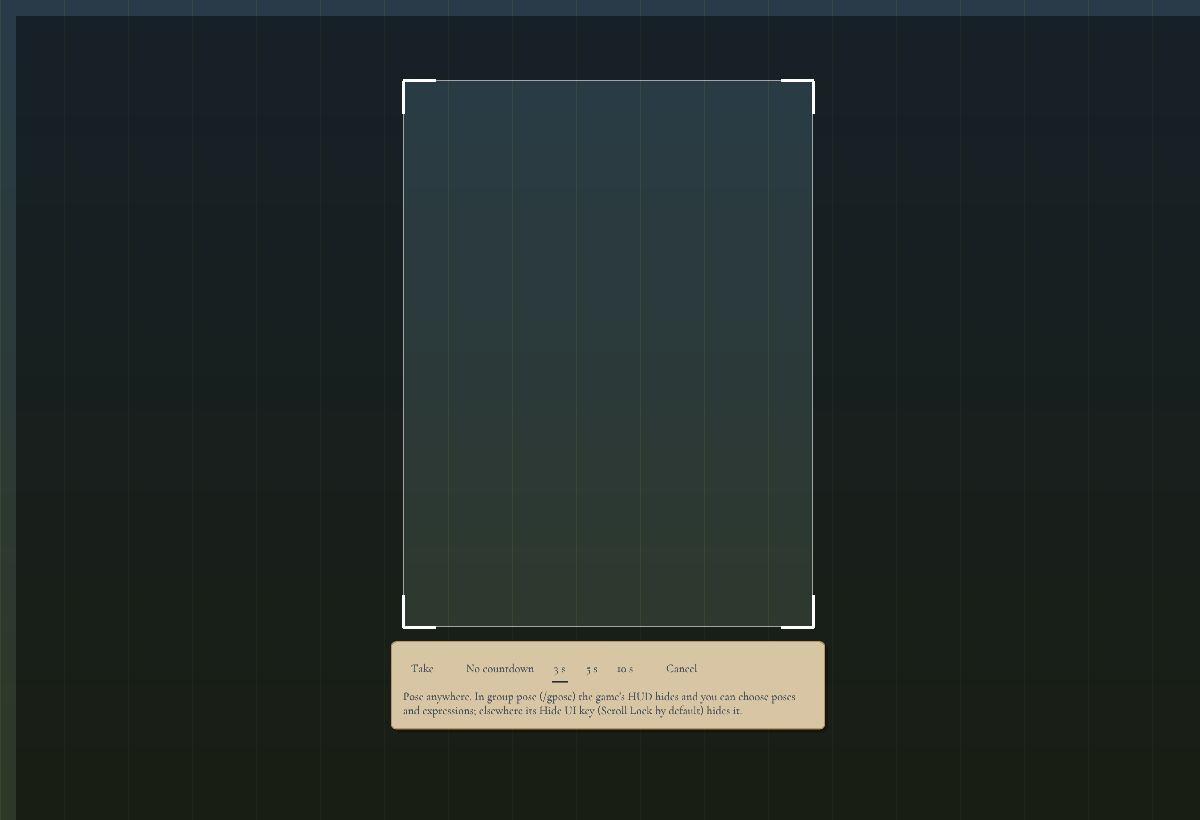
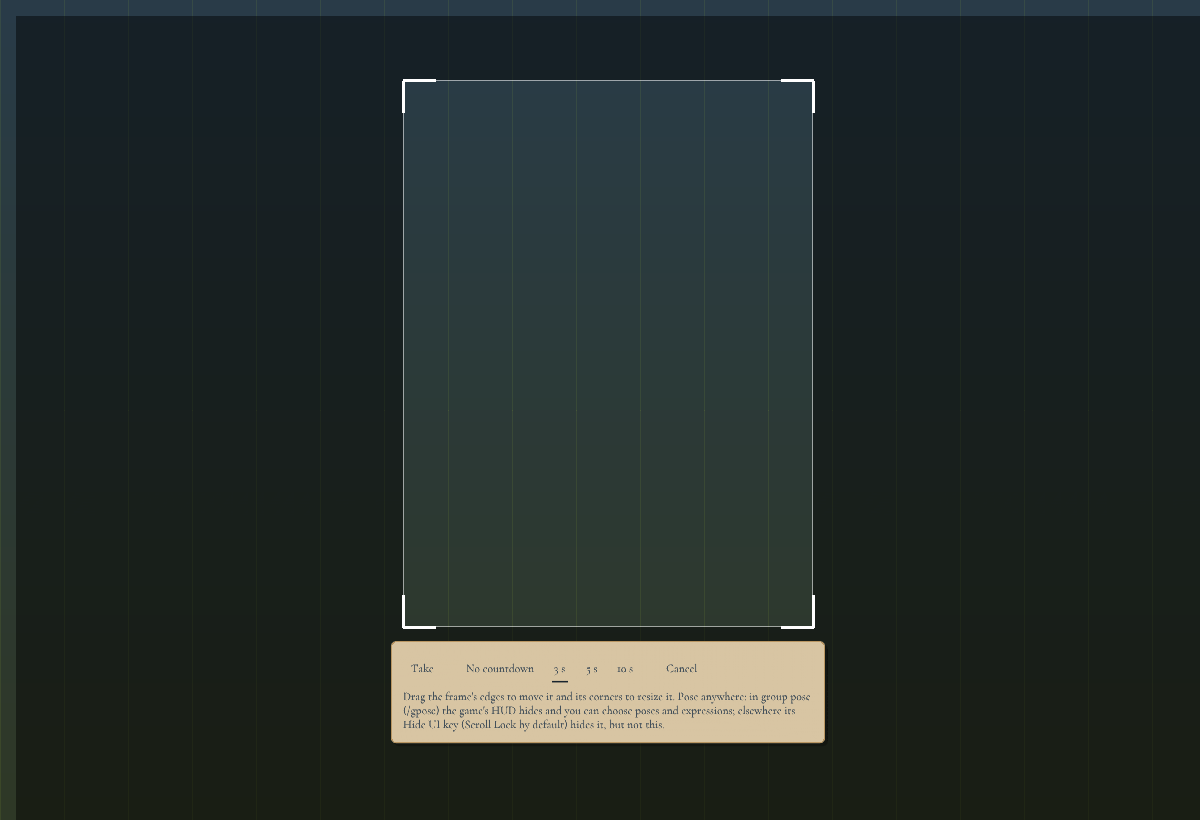
fix(ui): keep the camera guide through hidden UI and let it move and resize

Changed region(s): [[0.3083, 0.8232, 0.7092, 0.9146]]

diff --git a/src/Wanderveil/UI/BookShellCamera.cs b/src/Wanderveil/UI/BookShellCamera.cs
@@ -12,7 +12,8 @@ namespace Wanderveil.UI;
 // Take a picture: while the book steps aside, the screen dims around a 3:4 frame guide, and a small paper panel under it
 // offers Take, a countdown (off, 3, 5, or 10 seconds, kept for the session), and Cancel, with a tip about posing. Take
 // (after the countdown) captures what is inside the guide; the capture is taken before any plugin window draws, so
-// neither the guide nor the panel is in the picture. Escape cancels, also mid-countdown.
+// neither the guide nor the panel is in the picture. Escape cancels, also mid-countdown. The guide's edges move it and
+// its corners resize it (staying 3:4), kept for the session; inside, the mouse passes through to the game's camera.
 internal sealed class BookShellCamera(IPassportPortrait? picture)
 {
     internal static readonly int[] Countdowns = [0, 3, 5, 10];
@@ -22,12 +23,94 @@ internal sealed class BookShellCamera(IPassportPortrait? picture)
     // Seconds left before the picture is taken, while counting down.
     internal float? Remaining { get; private set; }
     internal UiRect Guide { get; private set; }
+    // Where the guide sits: its centre (0 to 1 across and down the screen) and its height as a share of the screen's.
+    private Vector2 centre = new(0.5f, 0.42f);
+    private float share = 0.68f;
+    // How thick the edges that move the guide are, and how large its corner handles, last frame.
+    private float grip = 8f;
     // Where the panel lay last frame: the only part of the screen that takes the mouse.
     internal UiRect Panel { get; private set; }
     // For checks: where each control was drawn last frame, by name.
     internal Dictionary<string, Vector2> Controls { get; } = new(StringComparer.Ordinal);
 
     internal bool Available => picture?.CanTake == true;
+
+    // Whether the guide's window takes the mouse at a point: on its panel, or on the guide's edges and corners. Inside
+    // the guide and around it, the mouse passes to the game.
+    internal bool TakesMouse(Vector2 point)
+    {
+        if (Panel.Contains(point)) return true;
+        var outer = new UiRect(Guide.Position - new Vector2(grip), Guide.Size + new Vector2(grip * 2));
+        var inner = new UiRect(Guide.Position + new Vector2(grip), Vector2.Max(Vector2.Zero, Guide.Size - new Vector2(grip * 2)));
+        return outer.Contains(point) && !inner.Contains(point) || dragging;
+    }
+
+    private bool dragging;
+
+    // The guide from its centre and share, kept within the screen and at least a fifth of its height.
+    private UiRect Place(UiRect screen)
+    {
+        share = Math.Clamp(share, 0.2f, 0.95f);
+        var height = MathF.Round(screen.Size.Y * share);
+        var width = MathF.Round(height * PassportDocumentView.PortraitAspect);
+        if (width > screen.Size.X * 0.95f) { width = MathF.Round(screen.Size.X * 0.95f); height = MathF.Round(width / PassportDocumentView.PortraitAspect); share = height / screen.Size.Y; }
+        var middle = screen.Position + centre * screen.Size;
+        var min = Vector2.Clamp(middle - new Vector2(width, height) / 2, screen.Position, Vector2.Max(screen.Position, screen.Max - new Vector2(width, height)));
+        centre = (min + new Vector2(width, height) / 2 - screen.Position) / Vector2.Max(Vector2.One, screen.Size);
+        return new UiRect(min, new Vector2(width, height));
+    }
+
+    // The guide's edges move it; its corners resize it from the opposite corner, staying 3:4. Returns the guide as it
+    // now lies.
+    private UiRect Handles(UiRect screen, UiRect guide, UiContext context)
+    {
+        if (Remaining != null) { dragging = false; return guide; }
+        var io = ImGui.GetIO();
+        var any = false;
+        // Edges: four strips along the sides, between the corners.
+        var edges = new[]
+        {
+            new UiRect(guide.Position + new Vector2(grip, -grip), new Vector2(guide.Size.X - grip * 2, grip * 2)),
+            new UiRect(new Vector2(guide.Position.X + grip, guide.Max.Y - grip), new Vector2(guide.Size.X - grip * 2, grip * 2)),
+            new UiRect(guide.Position + new Vector2(-grip, grip), new Vector2(grip * 2, guide.Size.Y - grip * 2)),
+            new UiRect(new Vector2(guide.Max.X - grip, guide.Position.Y + grip), new Vector2(grip * 2, guide.Size.Y - grip * 2)),
+        };
+        for (var index = 0; index < edges.Length; index++)
+        {
+            ImGui.SetCursorScreenPos(edges[index].Position);
+            ImGui.InvisibleButton("Guide edge " + index, Vector2.Max(Vector2.One, edges[index].Size));
+            if (ImGui.IsItemHovered() || ImGui.IsItemActive()) ImGui.SetMouseCursor(ImGuiMouseCursor.ResizeAll);
+            if (ImGui.IsItemActive())
+            {
+                any = true;
+                centre += io.MouseDelta / Vector2.Max(Vector2.One, screen.Size);
+            }
+        }
+        Controls["Guide edge"] = edges[0].Position + edges[0].Size / 2;
+        // Corners: each resizes from the opposite one.
+        var corners = new[] { (guide.Position, guide.Max), (new Vector2(guide.Max.X, guide.Position.Y), new Vector2(guide.Position.X, guide.Max.Y)), (new Vector2(guide.Position.X, guide.Max.Y), new Vector2(guide.Max.X, guide.Position.Y)), (guide.Max, guide.Position) };
+        for (var index = 0; index < corners.Length; index++)
+        {
+            var (corner, anchor) = corners[index];
+            ImGui.SetCursorScreenPos(corner - new Vector2(grip * 1.5f));
+            ImGui.InvisibleButton("Guide corner " + index, new Vector2(grip * 3));
+            if (ImGui.IsItemHovered() || ImGui.IsItemActive()) ImGui.SetMouseCursor(index is 0 or 3 ? ImGuiMouseCursor.ResizeNwse : ImGuiMouseCursor.ResizeNesw);
+            if (ImGui.IsItemActive())
+            {
+                any = true;
+                var reach = Vector2.Abs(io.MousePos - anchor);
+                var height = MathF.Max(reach.Y, reach.X / PassportDocumentView.PortraitAspect);
+                height = Math.Clamp(height, screen.Size.Y * 0.2f, screen.Size.Y * 0.95f);
+                var size = new Vector2(height * PassportDocumentView.PortraitAspect, height);
+                var toward = new Vector2(MathF.Sign(corner.X - anchor.X), MathF.Sign(corner.Y - anchor.Y));
+                share = height / screen.Size.Y;
+                centre = (anchor + toward * size / 2 - screen.Position) / Vector2.Max(Vector2.One, screen.Size);
+            }
+            Controls["Guide corner " + index] = corner;
+        }
+        dragging = any;
+        return any ? Place(screen) : guide;
+    }
 
     internal void Reset() => Remaining = null;
 
@@ -37,10 +120,12 @@ internal sealed class BookShellCamera(IPassportPortrait? picture)
         Controls.Clear();
         if (escape) { Remaining = null; return false; }
         var list = ImGui.GetWindowDrawList();
-        var height = MathF.Round(screen.Size.Y * 0.68f);
-        var width = MathF.Round(height * PassportDocumentView.PortraitAspect);
-        var guide = new UiRect(screen.Position + new Vector2((screen.Size.X - width) / 2, screen.Size.Y * 0.08f), new Vector2(width, height));
+        grip = MathF.Max(8f, 10 * context.Scale);
+        var guide = Place(screen);
+        guide = Handles(screen, guide, context);
         Guide = guide;
+        var height = guide.Size.Y;
+        var width = guide.Size.X;
 
         // The rest of the screen dims; the guide is outlined, with brighter corners.
         var dim = ImGui.GetColorU32(new Vector4(0, 0, 0, 0.45f));
@@ -80,7 +165,7 @@ internal sealed class BookShellCamera(IPassportPortrait? picture)
         var pad = 12 * context.Scale;
         var gap = 16 * context.Scale;
         var control = BookShellLayout.GetControlHeight(context);
-        const string Tip = "Pose anywhere. In group pose (/gpose) the game's HUD hides and you can choose poses and expressions; elsewhere its Hide UI key (Scroll Lock by default) hides it.";
+        const string Tip = "Drag the frame's edges to move it and its corners to resize it. Pose anywhere: in group pose (/gpose) the game's HUD hides and you can choose poses and expressions; elsewhere its Hide UI key (Scroll Lock by default) hides it, but not this.";
         var labels = new List<string> { Remaining == null ? "Take" : "Taking" };
         foreach (var seconds0 in Countdowns) labels.Add(seconds0 == 0 ? "No countdown" : $"{seconds0} s");
         labels.Add("Cancel");
@@ -90,7 +175,14 @@ internal sealed class BookShellCamera(IPassportPortrait? picture)
         row += gap * 2 + 4 * context.Scale * (Countdowns.Length - 1);
         var panelWidth = MathF.Min(screen.Size.X - pad * 2, MathF.Max(row, width) + pad * 2);
         var tipSize = UiTypography.Measure(Tip, TextRole.Caption, context, panelWidth - pad * 2, true);
-        var panel = new UiRect(new Vector2(screen.Position.X + (screen.Size.X - panelWidth) / 2, guide.Max.Y + 14 * context.Scale), new Vector2(panelWidth, pad * 2 + control + 6 * context.Scale + tipSize.Y));
+        // Under the guide where it fits, else over it, else at the screen's foot; centred on the guide where it can be.
+        var panelHeight = pad * 2 + control + 6 * context.Scale + tipSize.Y;
+        var space = 14 * context.Scale;
+        var top = guide.Max.Y + space + panelHeight <= screen.Max.Y - 8 ? guide.Max.Y + space
+            : guide.Position.Y - space - panelHeight >= screen.Position.Y + 8 ? guide.Position.Y - space - panelHeight
+            : screen.Max.Y - 8 - panelHeight;
+        var panelX = Math.Clamp(guide.Position.X + (guide.Size.X - panelWidth) / 2, screen.Position.X + 8, MathF.Max(screen.Position.X + 8, screen.Max.X - 8 - panelWidth));
+        var panel = new UiRect(new Vector2(panelX, top), new Vector2(panelWidth, panelHeight));
         Panel = panel;
         PageSurface.Draw(list, panel, context);
         var x = panel.Position.X + pad;

diff --git a/tests/Wanderveil.UiChecks/CameraChecks.cs b/tests/Wanderveil.UiChecks/CameraChecks.cs
@@ -34,6 +34,24 @@ internal static class CameraChecks
             check(MathF.Abs(guide.Size.X / guide.Size.Y - PassportDocumentView.PortraitAspect) < 0.01f && book.Shell.Camera.Controls.ContainsKey("Take"), "The camera's guide is not a 3:4 frame with its panel.");
             if (!motion) book.Save(artifacts, "camera-guide.bmp");
 
+            // The guide's edges move it and its corners resize it, staying 3:4; only they and the panel take the mouse.
+            var camera0 = book.Shell.Camera;
+            check(camera0.TakesMouse(camera0.Controls["Guide edge"]) && !camera0.TakesMouse(guide.Position + guide.Size / 2) && !camera0.TakesMouse(guide.Position - new Vector2(60)) && camera0.TakesMouse(camera0.Controls["Take"]),
+                "The guide's window takes the mouse inside the guide or around it, or not on its edges and panel.");
+            book.Drag(camera0.Controls["Guide edge"], camera0.Controls["Guide edge"] + new Vector2(-150, 60));
+            var moved = camera0.Guide;
+            check(MathF.Abs(moved.Position.X - (guide.Position.X - 150)) < 3 && MathF.Abs(moved.Position.Y - (guide.Position.Y + 60)) < 3 && moved.Size == guide.Size, $"Dragging the guide's edge does not move it ({guide.Position} to {moved.Position}).");
+            // Its bottom right corner, dragged in, makes it smaller from its top left.
+            book.Drag(camera0.Controls["Guide corner 3"], camera0.Controls["Guide corner 3"] - new Vector2(90, 120));
+            var resized = camera0.Guide;
+            check(resized.Size.Y < moved.Size.Y - 100 && MathF.Abs(resized.Size.X / resized.Size.Y - PassportDocumentView.PortraitAspect) < 0.01f && Vector2.Distance(resized.Position, moved.Position) < 2, $"Dragging the guide's corner does not resize it at 3:4 from the opposite corner ({resized}).");
+            check(camera0.Panel.Position.Y > resized.Max.Y, "The panel does not sit under the guide.");
+            // Dragged to the screen's foot, the panel goes above it.
+            book.Drag(camera0.Controls["Guide edge"], camera0.Controls["Guide edge"] + new Vector2(0, 600));
+            check(camera0.Panel.Max.Y < camera0.Guide.Position.Y, "With the guide at the screen's foot, the panel does not go above it.");
+            if (!motion) book.Save(artifacts, "camera-guide-moved.bmp");
+            guide = camera0.Guide;
+
             // A countdown: Take starts it; Escape cancels it, taking nothing; the book comes back still editing.
             book.Click(book.Shell.Camera.Controls["Countdown 2"]);
             book.Click(book.Shell.Camera.Controls["Take"]);
@@ -51,7 +69,8 @@ internal static class CameraChecks
             book.Click(book.Shell.Camera.Controls["Countdown 0"]);
             book.Click(book.Shell.Camera.Controls["Take"]);
             for (var frame = 0; frame < 120 && (book.Shell.Phase != BookPhase.Open || book.Shell.CameraOpen); frame++) book.Frame();
-            check(camera.Taken is { } taken && Vector2.Distance(taken.Min, guide.Position) < 1 && Vector2.Distance(taken.Max, guide.Max) < 1 && book.Shell.EditingIdentity && profile.Identity.Portrait != null,
+            var now = book.Shell.Camera.Guide;
+            check(camera.Taken is { } taken && Vector2.Distance(taken.Min, now.Position) < 1 && Vector2.Distance(taken.Max, now.Max) < 1 && Vector2.Distance(now.Position, guide.Position) < 1 && book.Shell.EditingIdentity && profile.Identity.Portrait != null,
                 $"Take does not capture the guide's area, or the book does not come back ({camera.Taken}).");
             // The picture's frame choices make the page taller; it settles to fit its paper again.
             book.Frames(12);

diff --git a/src/Wanderveil/UI/CameraWindow.cs b/src/Wanderveil/UI/CameraWindow.cs
@@ -7,7 +7,8 @@ using Wanderveil.UI.Primitives;
 namespace Wanderveil.UI;
 
 // The camera's guide, over the whole game view, while the book steps aside for Take a picture. A transparent window:
-// only the guide's panel takes the mouse, so the camera can still be moved around it. The book opens and closes it.
+// only the guide's panel, edges, and corners take the mouse, so the game's camera can still be turned, even through
+// the guide. The book opens and closes it.
 internal sealed class CameraWindow : Window
 {
     private readonly BookShell shell;
@@ -32,7 +33,7 @@ internal sealed class CameraWindow : Window
         Position = viewport.Pos;
         // WindowSystem applies host UI scaling to Size.
         Size = viewport.Size / scale;
-        Flags = Flags0 | (shell.Camera.Panel.Contains(ImGui.GetIO().MousePos) ? ImGuiWindowFlags.None : ImGuiWindowFlags.NoMouseInputs);
+        Flags = Flags0 | (shell.Camera.TakesMouse(ImGui.GetIO().MousePos) ? ImGuiWindowFlags.None : ImGuiWindowFlags.NoMouseInputs);
         BookShell.PrepareWindow(viewport.Size);
     }
 

diff --git a/src/Wanderveil/Plugin.cs b/src/Wanderveil/Plugin.cs
@@ -116,8 +116,12 @@ public sealed class Plugin : IDalamudPlugin
     private void Draw()
     {
         portrait?.Poll();
-        // The camera's guide stays visible in group pose, the game's own posing tool.
-        PluginInterface.UiBuilder.DisableGposeUiHide = mainWindow.CameraOpen;
+        // The camera's guide stays visible in group pose (the game's own posing tool) and when the game's UI is hidden,
+        // by its Hide UI key or by the game itself, so a picture can be taken without the HUD.
+        var camera = mainWindow.CameraOpen;
+        PluginInterface.UiBuilder.DisableGposeUiHide = camera;
+        PluginInterface.UiBuilder.DisableUserUiHide = camera;
+        PluginInterface.UiBuilder.DisableAutomaticUiHide = camera;
         assets?.BeginFrame();
         windowSystem.Draw();
         portrait?.DrawDialog();

diff --git a/docs/passport-runtime.md b/docs/passport-runtime.md
@@ -110,7 +110,7 @@ The identity spread is yours to fill in. A new passport is issued the first time
 - **Fill in from my character** copies the logged-in character's name, home world, and data center (read from Dalamud's player state on the game's thread) once. They are then yours to change. Nothing on the page is treated as verified: the passport is self-reported. Without a logged-in character, nothing changes and the page says so.
 - **Signature.** The signature line signs in the handwriting face (Caveat). Left empty, your name signs, as before. Typing a signature replaces it.
 - **Picture.** **Choose a picture** opens Dalamud's file picker for a PNG, JPEG, WebP, or BMP up to 16 MB. The picture is read, decoded, and copied beside the passport on a background task, so the game never waits on it. A picture taller than 1200 pixels is scaled down once for display. It then fills the 3:4 portrait frame. Drag it to move it, and scroll over it to zoom (up to 4×); it always covers the frame. **Remove picture** takes it out and deletes the copy, and the placeholder returns. A file that is too large or not a picture says so under the frame. So that a picture never sits on the paper as a bare rectangle, it is set in a frame, chosen in Edit mode from the row of words under the picture (hover one for what it is): **Printed** (the default: an ink keyline around a slightly lighter mount, with a soft shadow, like a printed passport photo), **Corners** (black album photo corners), **Embossed** (a mount pressed into the paper, no ink), **Deckled** (the picture's own edge torn rough), or **None**. The frame stays within the portrait area, and the picture is dragged within the frame's opening. All of it is drawn geometry, so it turns with the page. See [the five frames](previews/passport/portrait-frames.png).
-- **Take a picture.** Beside **Choose a picture**, **Take a picture** captures the game itself. The open book slides down out of the way (staying open, on its page, still editing), and the screen dims around a 3:4 frame guide with a small panel: **Take**, a countdown (**No countdown**, **3 s**, **5 s**, or **10 s**; 3 seconds at first, kept for the session), and **Cancel**, with a tip: pose anywhere; in group pose (`/gpose`) the game's HUD hides and you can choose poses and expressions, and elsewhere the game's Hide UI key (Scroll Lock by default) hides it. Only the panel takes the mouse, so the camera can still be turned around the guide. **Take** (after the countdown, shown large in the guide) captures what is inside the guide, and the book slides back up with the picture in its frame, ready to move and zoom like a chosen one. **Cancel** or Escape, also mid-countdown, brings the book back with nothing taken. While the guide is open it stays visible in group pose (Dalamud otherwise hides plugin windows there). The capture uses Dalamud's own viewport capture, taken before any plugin window draws, so neither the guide nor the panel (nor the passport) is in the picture; the game's own HUD is, unless hidden. It is saved as PNG through Dalamud's encoder and kept like a chosen picture. Previews: [the guide](previews/passport/camera-guide.png), [counting down](previews/passport/camera-countdown.png), [back with the picture](previews/passport/camera-taken.png) (the checks stand in a crest for the capture, which needs the game). The game's own portrait editor (the adventurer plate's) is not used: Dalamud offers no way to read its image, and reaching into the game for it would break with patches.
+- **Take a picture.** Beside **Choose a picture**, **Take a picture** captures the game itself. The open book slides down out of the way (staying open, on its page, still editing), and the screen dims around a 3:4 frame guide with a small panel: **Take**, a countdown (**No countdown**, **3 s**, **5 s**, or **10 s**; 3 seconds at first, kept for the session), and **Cancel**, with a tip: pose anywhere; in group pose (`/gpose`) the game's HUD hides and you can choose poses and expressions, and elsewhere the game's Hide UI key (Scroll Lock by default) hides it. Drag the guide's edges to move it and its corners to resize it (it stays 3:4; it keeps its place for the session), and the panel follows, under the guide or above it when there is no room below ([moved](previews/passport/camera-guide-moved.png)). Only the panel and the guide's edges and corners take the mouse, so the game's camera can still be turned, even through the guide. **Take** (after the countdown, shown large in the guide) captures what is inside the guide, and the book slides back up with the picture in its frame, ready to move and zoom like a chosen one. **Cancel** or Escape, also mid-countdown, brings the book back with nothing taken. While the guide is open it stays visible in group pose and when the game's UI is hidden (by the Hide UI key or by the game itself), where Dalamud would otherwise hide plugin windows; so the HUD can be hidden for the picture while the guide stays. The capture uses Dalamud's own viewport capture, taken before any plugin window draws, so neither the guide nor the panel (nor the passport) is in the picture; the game's own HUD is, unless hidden. It is saved as PNG through Dalamud's encoder and kept like a chosen picture. Previews: [the guide](previews/passport/camera-guide.png), [counting down](previews/passport/camera-countdown.png), [back with the picture](previews/passport/camera-taken.png) (the checks stand in a crest for the capture, which needs the game). The game's own portrait editor (the adventurer plate's) is not used: Dalamud offers no way to read its image, and reaching into the game for it would break with patches.
 - **On the cover.** An optional line, up to 28 characters, is embossed in the cover's foil between *The Black Shroud* and the maker's mark, set smaller when long so it stays inside the vine border. **Use my name** fills it with your name; left empty, the cover is as printed.
 
 Previews: [a new passport](previews/passport/identity-blank.png), [editing](previews/passport/identity-edit.png), [filled in from a character](previews/passport/identity-filled.png), [a placed picture](previews/passport/identity-picture.png), [a name on the cover](previews/passport/cover-line.png). The picker, picture loading, and character reading need the game and are not covered by the headless checks; the checks use stand-ins for them.

diff --git a/tests/README.md b/tests/README.md
@@ -21,7 +21,7 @@ All checks pass locally: 4252 in Debug and 4378 in Release when writing previews
 - Wide/narrow/enlarged/long-content discovery previews, empty list and missing-image details, and scrolling to the end of long details without horizontal overflow.
 - Collecting and placing: one stamp per discovery even after its design is revised, separate design and instance identifiers, demo provenance, source and designer, issue date, invalid discoveries or designs refused; new stamps waiting unplaced, layering by placement, normalized turns, and invalid placements refused. In the real shell at wide and narrow sizes: collecting from the postcard, its link opening the first stamp page with the stamp in hand, a click pressing it where clicked without turning the page, its info page opposite (or over its page) and Escape closing it, and the link of a placed stamp opening its page. Arrange mode: no moving without it, Place stamp picking up the waiting stamp on the page after the last, the wheel turning a carried stamp, a drag across the spread, a knob turning a stamp, carrying across Page Down and by resting at the edge, Escape putting it back, and the × taking a stamp off its page to wait and be placed again; stamps turned round at all four page edges keep their knobs and × on the page, so no page scrolls (this failed before the fix). Page numbers: typing 57, 250, or 0 and Enter opens page 57, 100, or 1, and Escape leaves the page, at wide and narrow sizes; with motion, the jump riffles and lands on its page. With motion and a stamp in hand: no turning back by key or edge past the first stamp page, no Home to the cover, jumps clamped to the stamp pages, and the stamp's size unchanged through a page turn (it grew from 124 to 354 px before the fix). Turning stops at page 100 and blank pages store nothing; Escape handed over by the plugin (with ImGui's Escape ignored) puts a carried stamp back, then closes the passport; 500 stamps over all 96 stamp pages with End and the same per-frame cost at both ends (printed). A failed save says so under the stamp and its **Try saving again** link retries.
 - Settings categories: the tab bar swapping gradually with motion and at once without, Settings opening on General, the third tab opening Layout rather than Echoes and the fourth Saved data, every category fitting its pages wide (previews `settings-*.bmp`) and sideways on a single page, and leaving Settings bringing back working section tabs.
-- Take a picture: the link offered while editing (and not without a camera), the book stepping aside open, a 3:4 guide with its panel, a 5-second countdown started and cancelled by Escape with nothing taken, the book coming back open on its page still editing, and with no countdown the guide's exact area captured (a stand-in records it) and the page settling to fit again; with motion and without. Previews: `camera-*.bmp`. The capture itself, and group pose, need the game.
+- Take a picture: the link offered while editing (and not without a camera), the book stepping aside open, a 3:4 guide with its panel, a 5-second countdown started and cancelled by Escape with nothing taken, the book coming back open on its page still editing, the guide's window taking the mouse only on its edges, corners, and panel, an edge dragged moving the guide and a corner resizing it at 3:4 from the opposite corner, the panel going above a guide at the screen's foot, and with no countdown the moved guide's exact area captured (a stand-in records it) and the page settling to fit again; with motion and without. Previews: `camera-*.bmp`. The capture itself, and group pose, need the game.
 - Drawing: one-point and off-page strokes refused, strokes kept on the page at a sensible width, rubbing out the middle of a stroke leaving its two ends and a miss changing nothing, an eraser's drag one step of undo, writing tidied, rewritten, emptied away, and cut to its limit, 30 lines and 20,000 samples to a page without spilling to the next, a stroke cut to its limit; the drawing file round-tripping to four decimals with malformed and later files refused, saved to its own file and loaded back; and in the shell Draw beside the stamp control, a drag drawing one stroke without turning the page, the palette and sizes setting the next stroke, the eraser splitting a stroke and Undo and Ctrl+Z taking changes back, a typed line kept on Enter and rewritten, nothing scrolling, the pencil reaching the paper's margins, the custom swatch choosing the custom colour, the eyedropper taking up a red line's colour and handing back the pencil and a drag held on from its pick drawing nothing (it once crashed), the bin clearing one page of two and Undo bringing it back, Escape and turning back ending Draw mode, a page at its limit timed against an empty one, the toolbar fitting a single page, and a drawn page turning. Previews: `drawing-*.bmp`.
 - Brush spike (not product code): three grainy-brush approaches on the same synthetic handwriting, previewed side by side (`brush-spike.bmp`) with their vertices and draw time printed as INFO lines; see [the spike notes](../docs/drawing-brush-spike.md).
 - Nation pages: banner left and map right by default, swapping and hiding moving them, one change per arrangement, reset by a change of edition and restored by change back, saved only when not standard with malformed values refused, and in Layout the Map box and Swap sides arranging the spread with the page still fitting. Previews: `layout-nation-*.bmp`.
